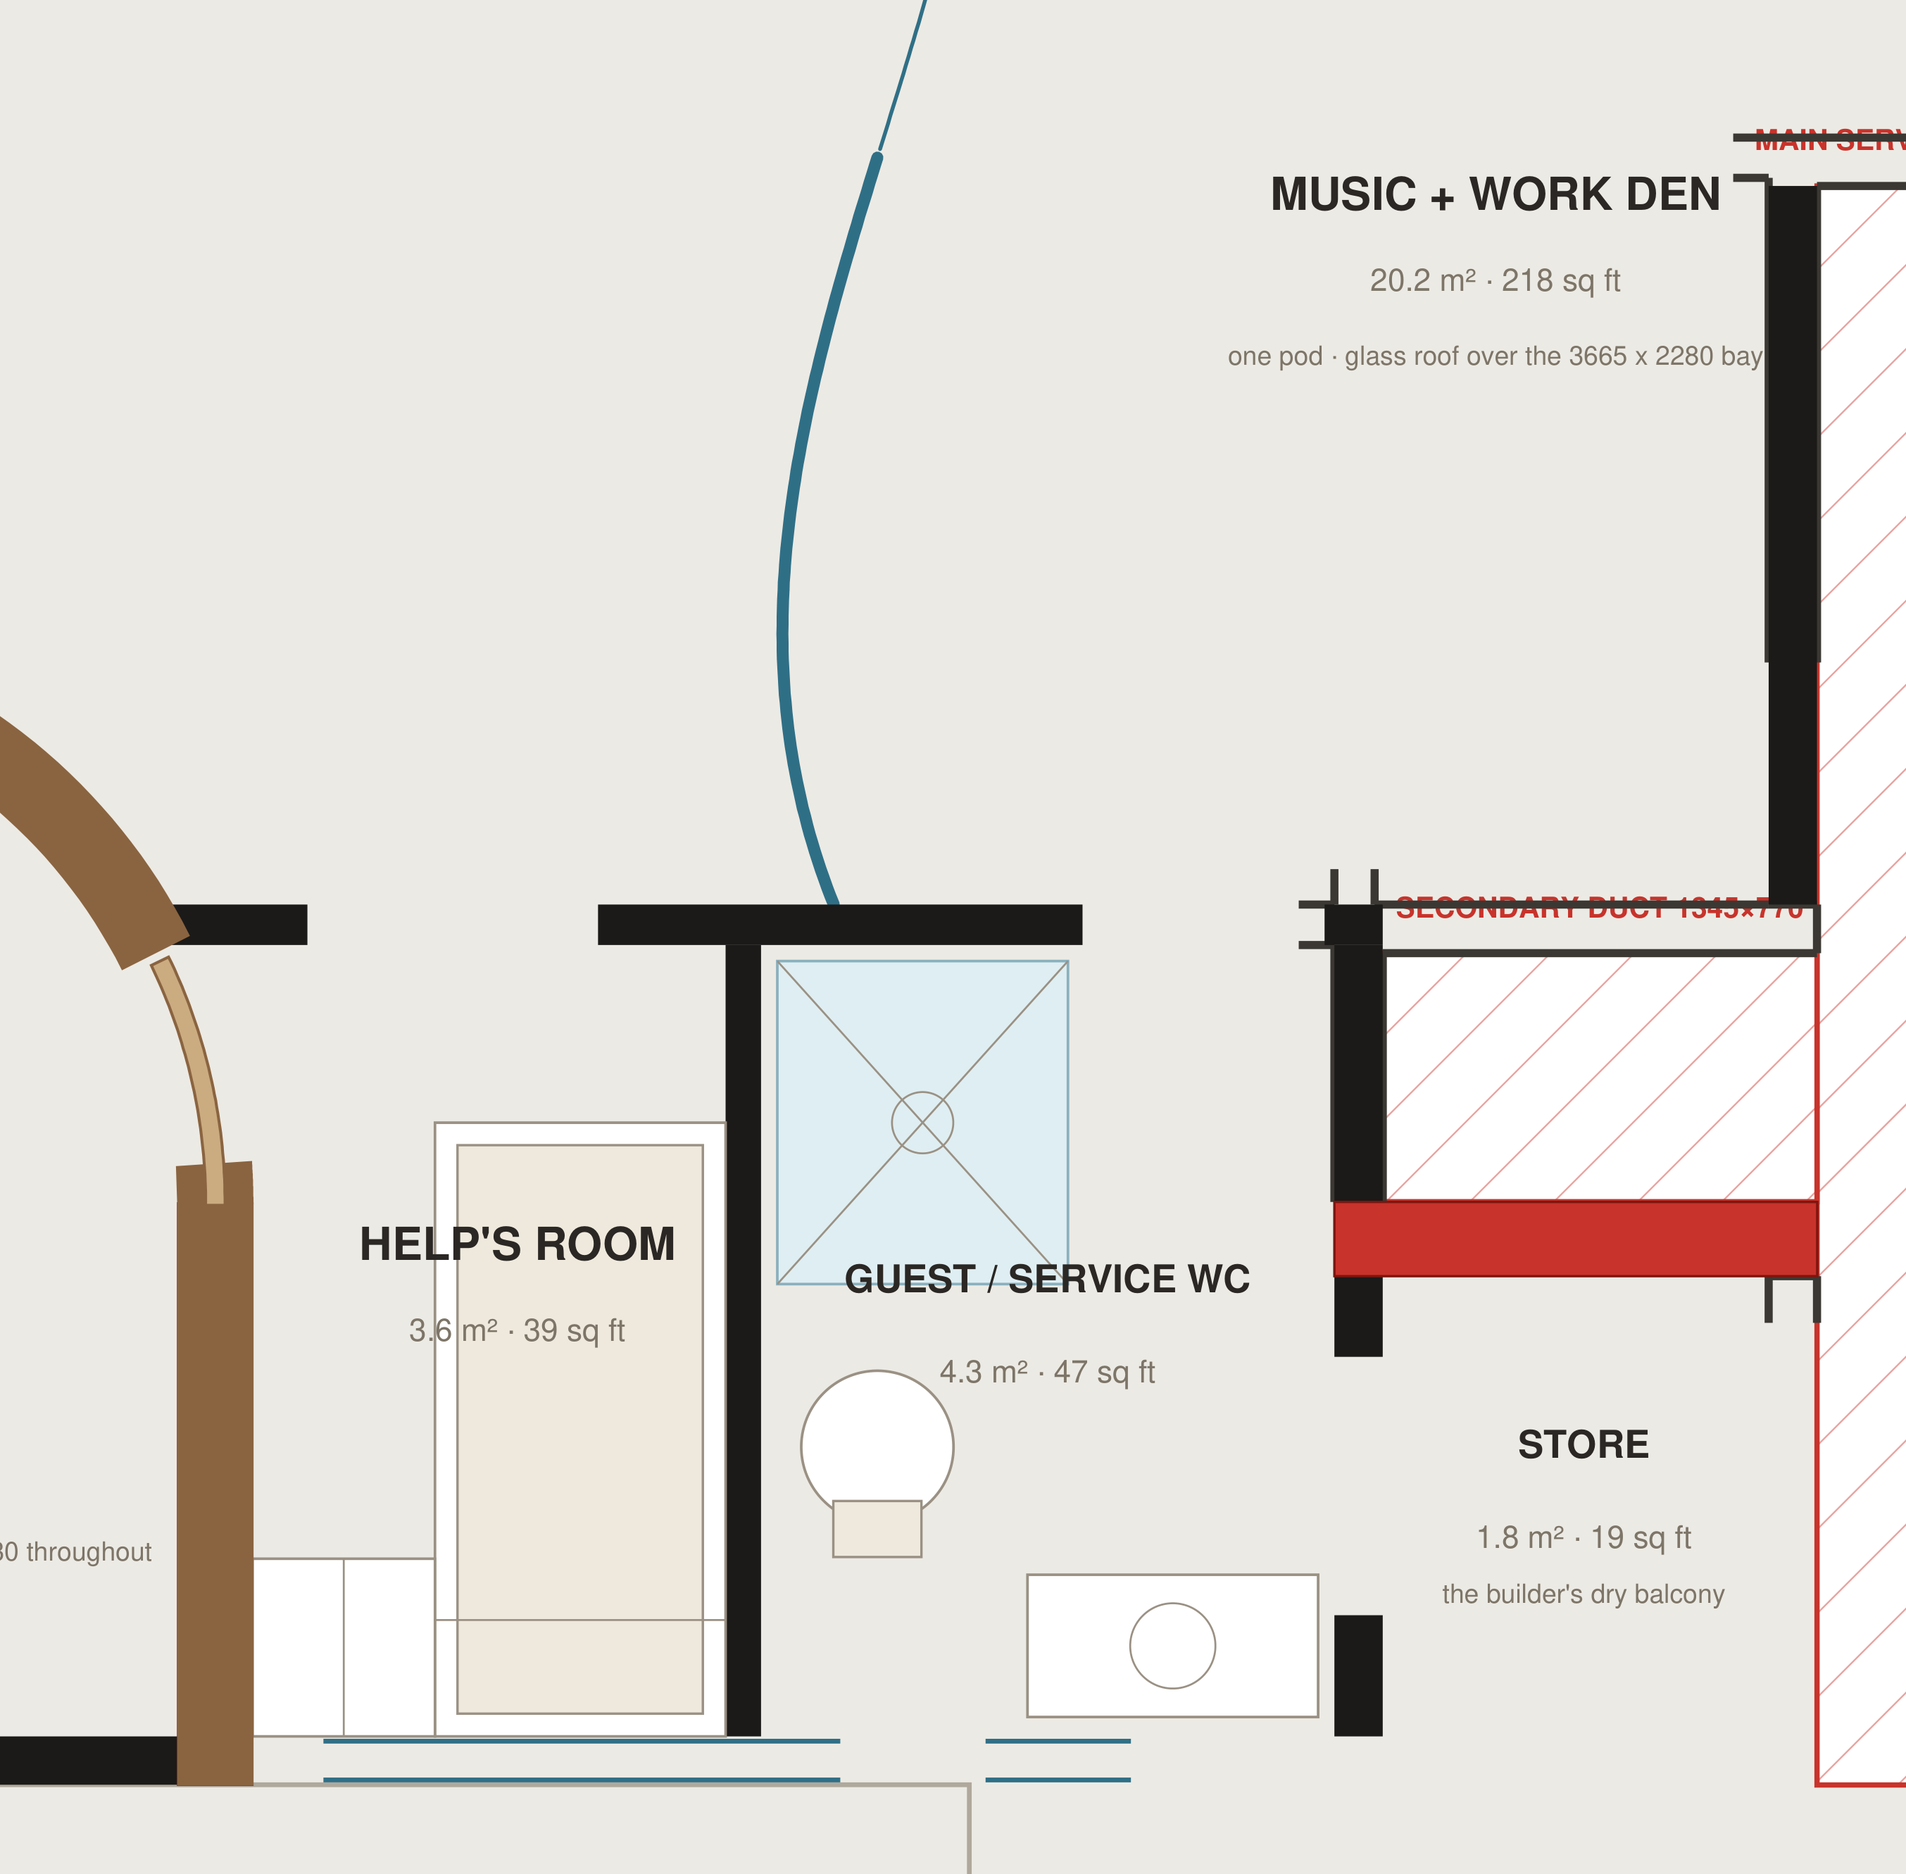
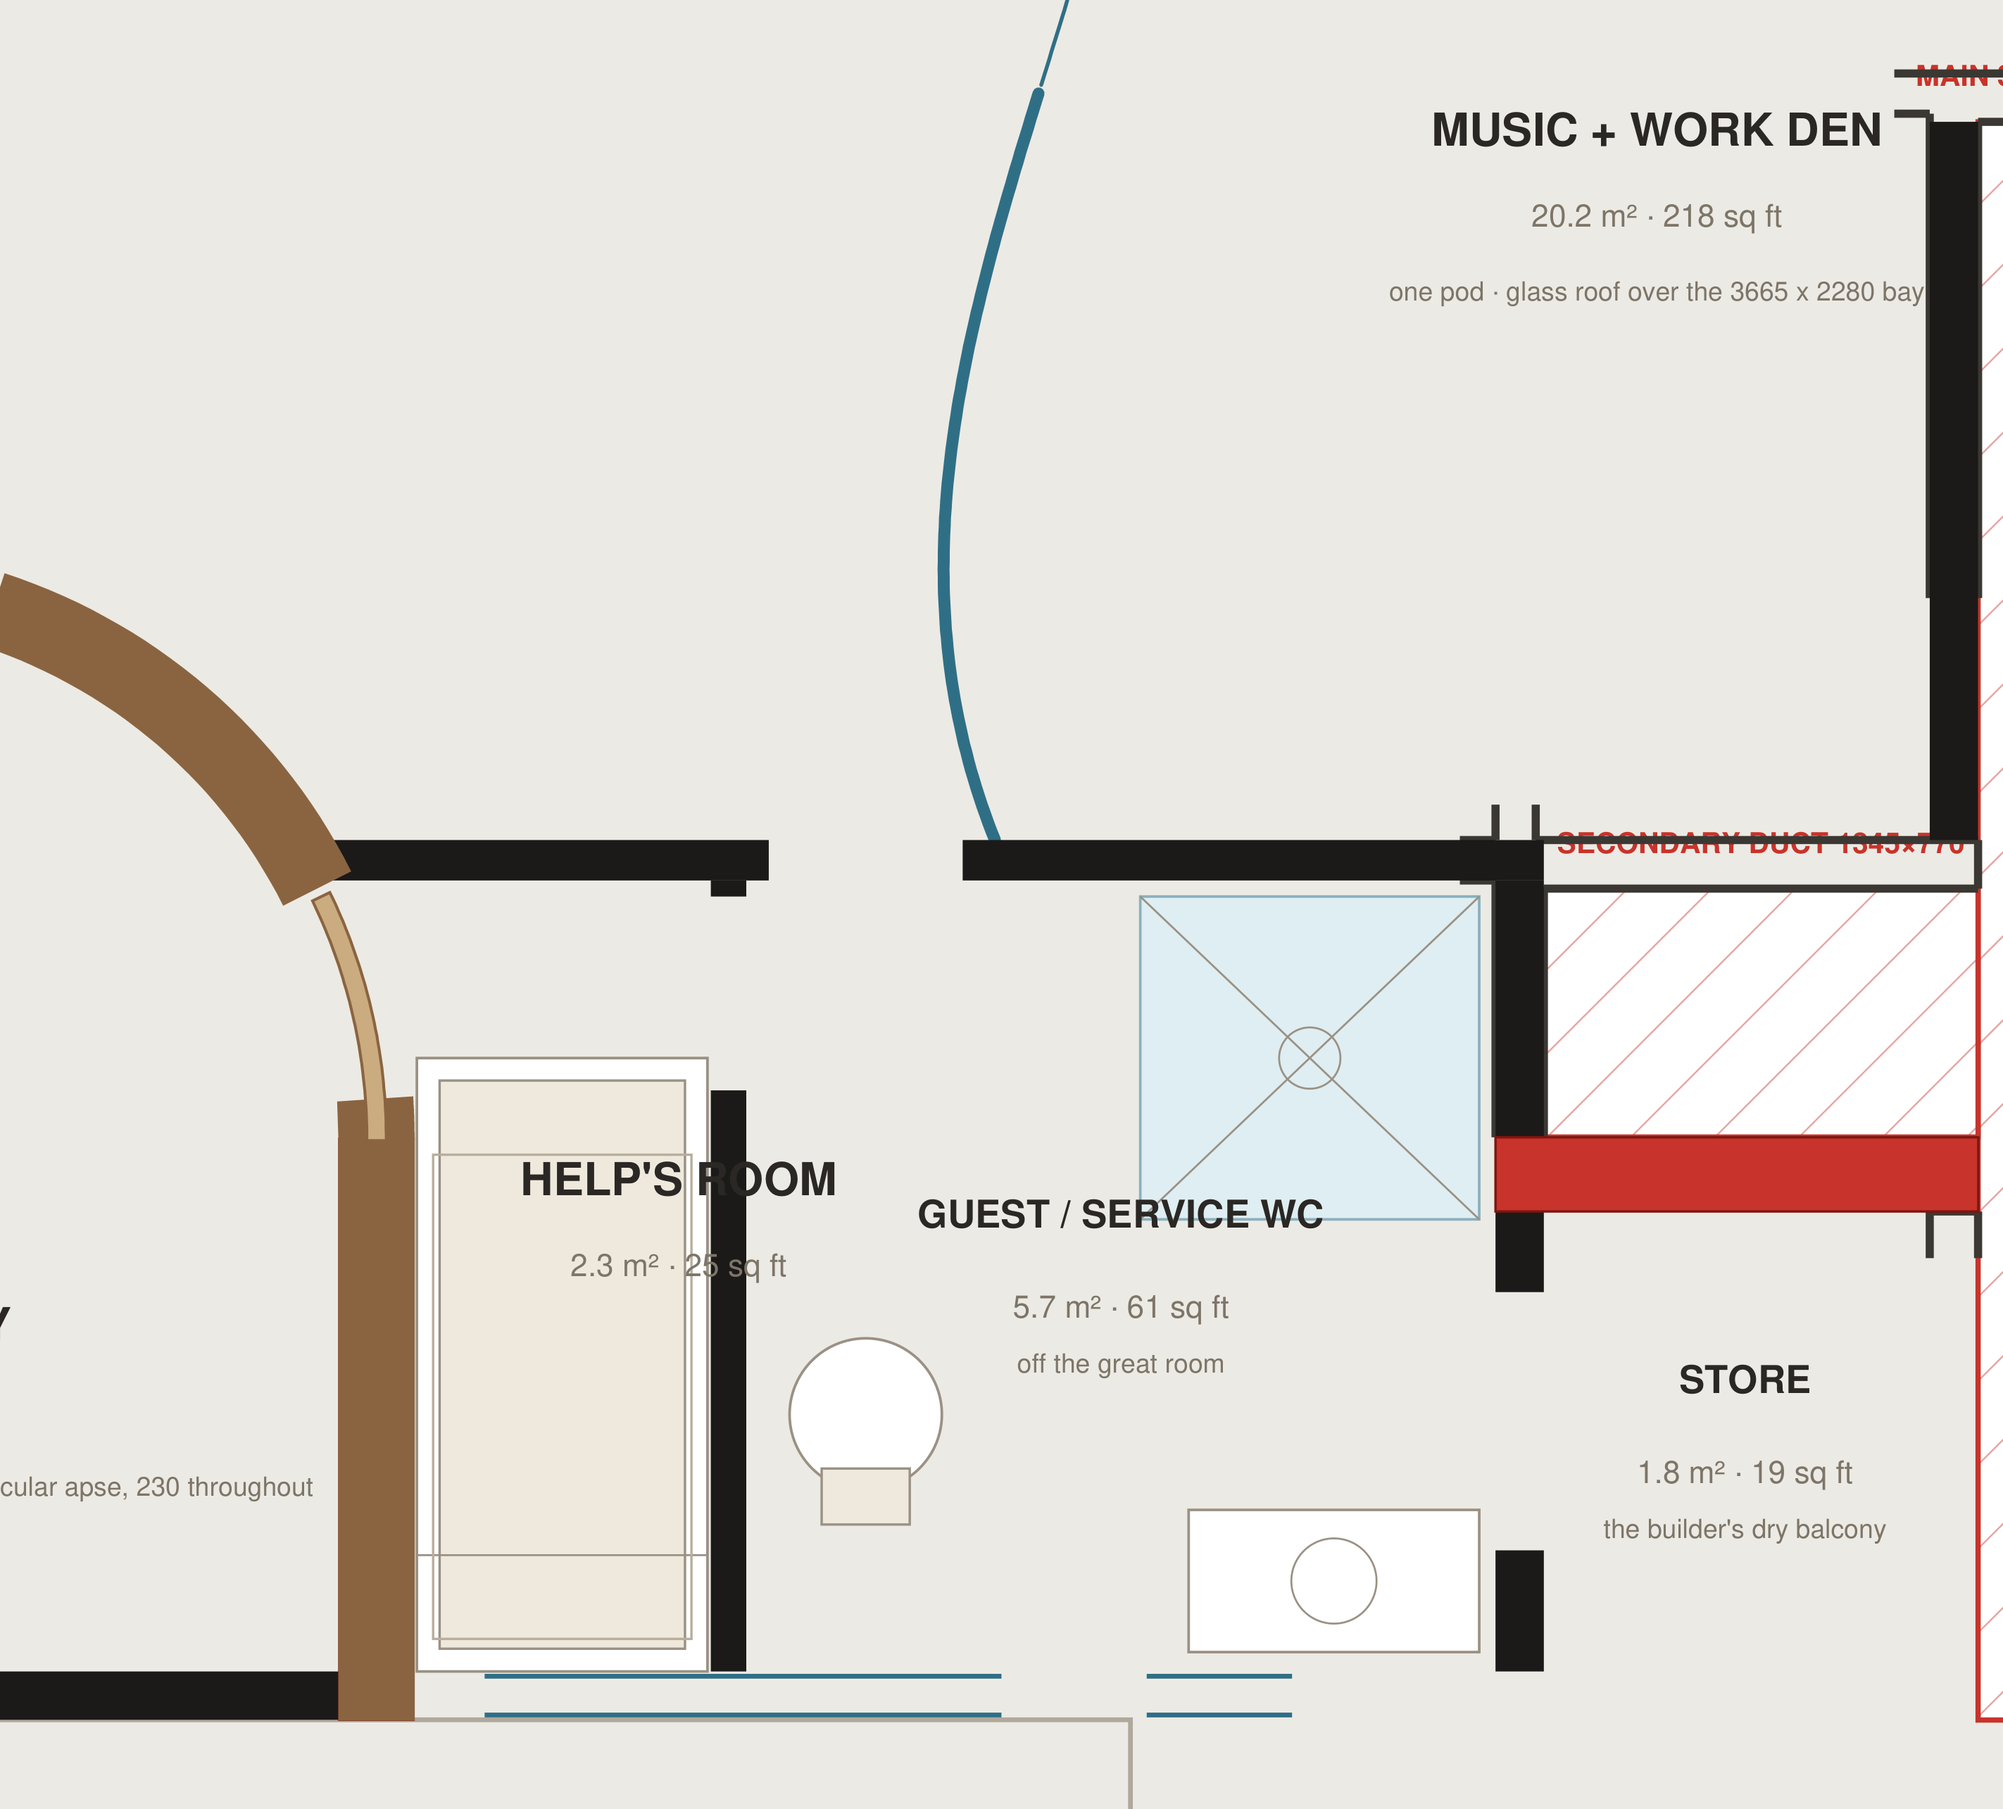
WIP: guest WC opens off the great room; help's room becomes a berth
All three asks, and the arithmetic behind them.

  help's room  3.6 -> 2.3 m2   (39 -> 25 sq ft)   920 x 2450
  guest WC     4.3 -> 5.7      (47 -> 61)        2320 x 2450

* Help's room's door on to the great room is gone; that run of wall is solid
  from the apse to the WC's door now.
* The WC's door comes off the great room at 15180-15780, and its den door goes
  with it — one outside door, not two.
* Help's room keeps its gallery door and gains a 600 door into the WC, at the
  north end where the landing is.

Why help's room ends up this small: the great room only reaches 15880 on the
service-bay wall — east of that the pod glazing lands and it is the den.  So
the WC's door width and help's room's width come out of the same run, one for
one.  900 door -> 720 room, 800 -> 820, 700 -> 920, 600 -> 1020.  A 600 door,
with 100 clear to the glazing foot, leaves 920.

Which costs the cupboard.  At 920 a 900 bunk is wall to wall, so it is built in
and the storage is drawers under it — drawn, not implied.  A cupboard standing
on the floor needs about 1400 of room, and 1400 leaves no door on to the great
room; the two cannot both be had.

verify.py: ALL CHECKS PASS, total 233.6 m2 / 2514 sq ft.

WIP: awaiting sign-off, the DXF in out/ is still the last shipped version.

Claude-Session: https://claude.ai/code/session_01HE1ZiZE53Xo6n73hYxijkS

diff --git a/CAD/tools/design.py b/CAD/tools/design.py
@@ -95,7 +95,8 @@ ROOMS = [
     # KITCHEN, ENTRY GALLERY and HELP'S ROOM are not rectangles — the gallery
     # is a free-standing drum and the two rooms run up to it.  See
     # retrofit.lobby_polys().
-    ("GUEST / SERVICE WC", "", [(15655, BAY_N, 17430, BAY_S)], ""),
+    ("GUEST / SERVICE WC", "", [(15110, BAY_N, 17430, BAY_S)],
+     "off the great room"),
     ("STORE", "", [(17580, 9550, 18825, 10975)], "the builder's dry balcony"),
 ]
 
@@ -168,9 +169,12 @@ NEW_WALLS = [
     #     the boundary, so there is nothing for this one to do.  The serving
     #     hatch and help's room door are gaps in it.
     (6900, 8462.5, _BRK_W, 8462.5, 125, [(0, 1100)]),   # serving hatch only
+    # Help's room has no door on to the great room any more — it is reached
+    # from the entry gallery, and through it the WC.  The one opening left in
+    # this run is the guest WC's, and it sits in the last 600 of wall the great
+    # room still has before the pod glazing lands at 15880.
     (_BRK_E, 8462.5, 17580, 8462.5, 125,
-     [(14250 - _BRK_E, 15150 - _BRK_E),                 # help's room door
-      (16650 - _BRK_E, 17400 - _BRK_E)]),               # guest WC, off the den
+     [(15180 - _BRK_E, 15780 - _BRK_E)]),               # guest WC, off the great room
 
     # --- service bay
     # (the kitchen / utility wall is gone — the two are one space now)
@@ -179,13 +183,15 @@ NEW_WALLS = [
     # cupboard now, and the width it gives up goes to the WC, which was 1150
     # wide and had no room to stand up in.
     #
-    # It is SOLID.  The WC used to be entered through help's room, which was
-    # only ever tolerable while that room had space to walk across.  It has not:
-    # 2450 deep less a 1900 bunk leaves 550, and a through-route needs more than
-    # that.  So the WC takes its own door off the den instead — which is what a
-    # guest WC should have had all along, rather than being reached through the
-    # staff bedroom.
-    (15600, BAY_N, 15600, BAY_S, T_THIN, []),                      # help's room / WC
+    # 15055 is as far east as it can go.  The WC's door has to come off the
+    # great room, and the great room only reaches 15880 on the service-bay wall
+    # — east of that the pod glazing lands and it is the den.  So the door width
+    # and help's room's width come out of the same 1800, one for one.  A 600
+    # door leaves 920, which is a fitted berth: bunk, and drawers under it.
+    #
+    # The door in it is help's room's second door, at the north end where the
+    # landing is — the bunk takes the rest of the wall.
+    (15055, BAY_N, 15055, BAY_S, T_THIN, [(50, 650)]),             # help's room / WC
 
     # --- the absorbed lobby: new entrance wall on the building line, sitting
     #     in the 150 between the service bay and the building line.  One door,
@@ -337,18 +343,18 @@ _ONCE = [
     ('basket',   5755, 9470, 6255, 9970, 'laundry basket'),
     ('bin',      6305, 9470, 6855, 10020, 'dustbin'),
     # --------------------------------------------------------- help\'s room
-    # One bunk and one cupboard, and that is the room.  The bunk goes east,
-    # against the WC wall, which leaves the whole west strip clear for the
-    # gallery door; the cupboard takes the corner behind it.  The north 550 is
-    # the landing both doors share.
-    ('bunk',     14645, 9075, 15545, 10975, 'bunk'),
-    ('shelves',  14080, 10425, 14645, 10975, 'cupboard'),
+    # 920 x 2450.  The bunk is built in, wall to wall, and the north 550 is the
+    # landing the gallery door and the WC door share.  Nothing is left to stand
+    # a cupboard on, so the cupboard is drawers under the bunk — which is what
+    # you would build into a berth this size anyway.
+    ('bunk',     14090, 9075, 14990, 10975, 'bunk, built in'),
+    ('under',    14140, 9375, 14940, 10875, 'drawers under the bunk'),
     # ------------------------------------------------- guest / service WC
-    # 1775 wide now instead of 1150, and entered from the den at the north-east.
-    # Everything sits on a wall — shower north-west, pan on the west, basin
-    # along the south — so the door lands on clear floor.
-    ('shower',   15705, 8575, 16605, 9575, ''),
-    ('wc',       15705, 9800, 16325, 10420, ''),
+    # 2320 wide now instead of 1150.  Both doors are at the north-west, so the
+    # shower goes to the far corner and the pan and basin take the two far
+    # walls, leaving that corner clear to walk into.
+    ('shower',   16330, 8575, 17380, 9575, ''),
+    ('wc',       15170, 9900, 15790, 10520, ''),
     ('basin',    16480, 10475, 17380, 10915, ''),
 ]
 

diff --git a/CAD/tools/retrofit.py b/CAD/tools/retrofit.py
@@ -182,7 +182,7 @@ def lobby_polys():
     """
     r, t = D.GAL_R, D.T_GAL
     ro, ri = D.GAL_RO, D.GAL_RI
-    kw, ke = 6900, 15545                   # far faces of the two rooms
+    kw, ke = 6900, 15000                   # far faces of the two rooms
     iw, ie = D.GAL_W + t, D.GAL_E - t      # inner faces of the two legs
 
     # the kitchen now includes the builder's dry balcony — one room, one area
